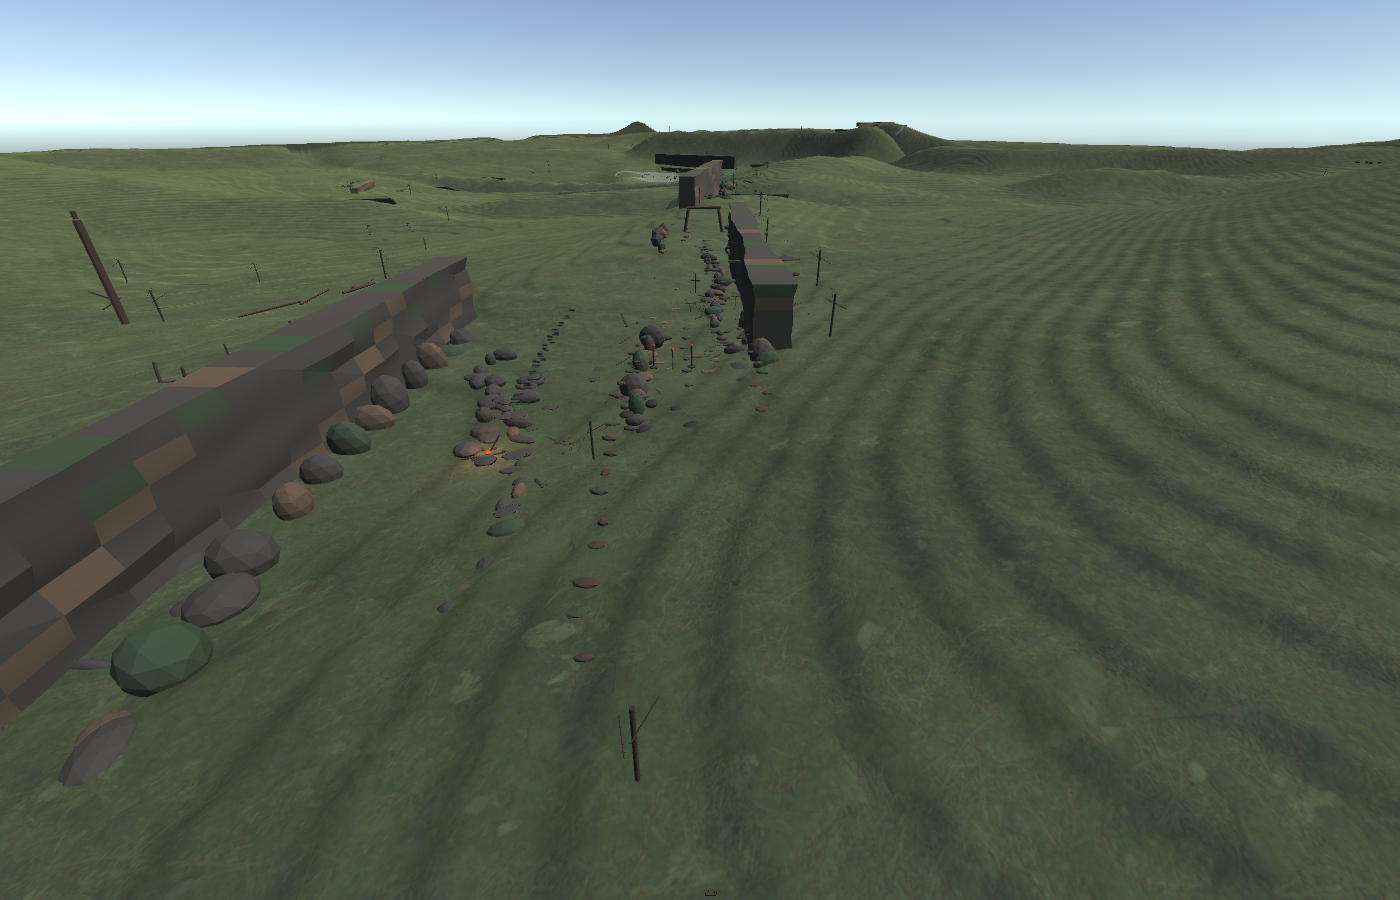
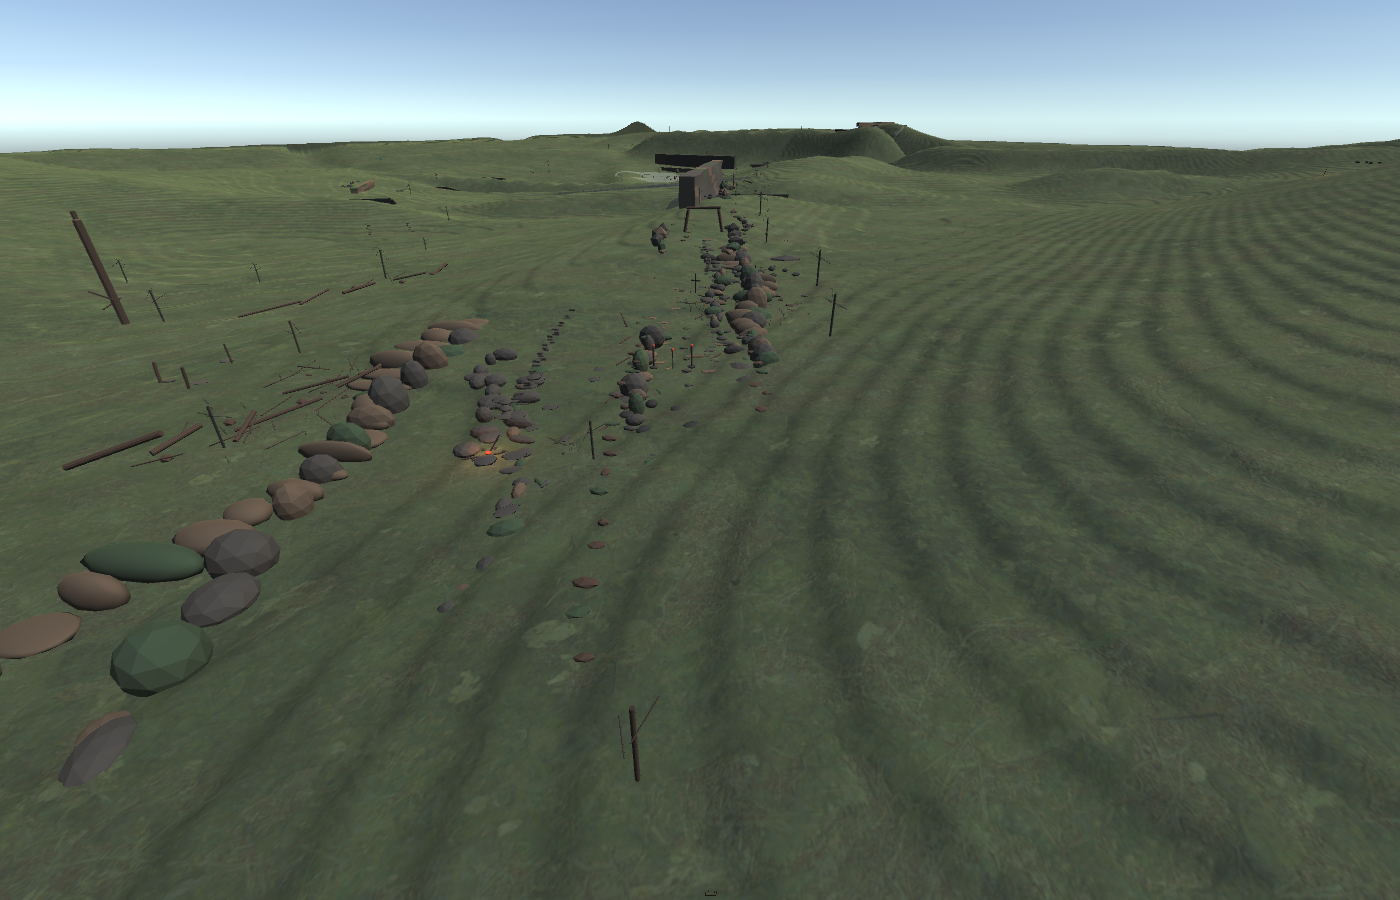
Publish corrected route rock pass

Changed region(s): [[0.0, 0.28, 0.3379, 0.7778], [0.4914, 0.2489, 0.5836, 0.4044]]

diff --git a/play-20260621-1458/index.html b/play-20260621-1458/index.html
@@ -1,0 +1,133 @@
+<!DOCTYPE html>
+<html lang="en-us">
+  <head>
+    <meta charset="utf-8">
+    <meta http-equiv="Content-Type" content="text/html; charset=utf-8">
+    <title>Unity Web Player | Fantasy Open World Prototype</title>
+    <link rel="shortcut icon" href="TemplateData/favicon.ico">
+    <link rel="stylesheet" href="TemplateData/style.css">
+  </head>
+  <body>
+    <div id="unity-container" class="unity-desktop">
+      <canvas id="unity-canvas" width=1280 height=720 tabindex="-1"></canvas>
+      <div id="unity-loading-bar">
+        <div id="unity-logo"></div>
+        <div id="unity-progress-bar-empty">
+          <div id="unity-progress-bar-full"></div>
+        </div>
+      </div>
+      <div id="unity-warning"> </div>
+      <div id="unity-footer">
+        <div id="unity-logo-title-footer"></div>
+        <div id="unity-fullscreen-button"></div>
+        <div id="unity-build-title">Fantasy Open World Prototype</div>
+      </div>
+    </div>
+    <script>
+      var canvas = document.querySelector("#unity-canvas");
+
+      // Shows a temporary message banner/ribbon for a few seconds, or
+      // a permanent error message on top of the canvas if type=='error'.
+      // If type=='warning', a yellow highlight color is used.
+      // Modify or remove this function to customize the visually presented
+      // way that non-critical warnings and error messages are presented to the
+      // user.
+      function unityShowBanner(msg, type) {
+        var warningBanner = document.querySelector("#unity-warning");
+        function updateBannerVisibility() {
+          warningBanner.style.display = warningBanner.children.length ? 'block' : 'none';
+        }
+        var div = document.createElement('div');
+        div.innerHTML = msg;
+        warningBanner.appendChild(div);
+        if (type == 'error') div.style = 'background: red; padding: 10px;';
+        else {
+          if (type == 'warning') div.style = 'background: yellow; padding: 10px;';
+          setTimeout(function() {
+            warningBanner.removeChild(div);
+            updateBannerVisibility();
+          }, 5000);
+        }
+        updateBannerVisibility();
+      }
+
+      var buildUrl = "Build";
+      var loaderUrl = buildUrl + "/UnityWebGL.loader.js";
+      var config = {
+        arguments: [],
+        dataUrl: buildUrl + "/UnityWebGL.data",
+        frameworkUrl: buildUrl + "/UnityWebGL.framework.js",
+        codeUrl: buildUrl + "/UnityWebGL.wasm",
+        streamingAssetsUrl: "StreamingAssets",
+        companyName: "Drakovor",
+        productName: "Fantasy Open World Prototype",
+        productVersion: "1.0",
+        showBanner: unityShowBanner,
+        // errorHandler: function(err, url, line) {
+        //    alert("error " + err + " occurred at line " + line);
+        //    // Return 'true' if you handled this error and don't want Unity
+        //    // to process it further, 'false' otherwise.
+        //    return true;
+        // },
+      };
+
+      // By default, Unity keeps WebGL canvas render target size matched with
+      // the DOM size of the canvas element (scaled by window.devicePixelRatio)
+      // Set this to false if you want to decouple this synchronization from
+      // happening inside the engine, and you would instead like to size up
+      // the canvas DOM size and WebGL render target sizes yourself.
+      // config.matchWebGLToCanvasSize = false;
+
+      // If you would like all file writes inside Unity Application.persistentDataPath
+      // directory to automatically persist so that the contents are remembered when
+      // the user revisits the site the next time, uncomment the following line:
+      // config.autoSyncPersistentDataPath = true;
+      // This autosyncing is currently not the default behavior to avoid regressing
+      // existing user projects that might rely on the earlier manual
+      // JS_FileSystem_Sync() behavior, but in future Unity version, this will be
+      // expected to change.
+
+      if (/iPhone|iPad|iPod|Android/i.test(navigator.userAgent)) {
+        // Mobile device style: fill the whole browser client area with the game canvas:
+
+        var meta = document.createElement('meta');
+        meta.name = 'viewport';
+        meta.content = 'width=device-width, height=device-height, initial-scale=1.0, user-scalable=no, shrink-to-fit=yes';
+        document.getElementsByTagName('head')[0].appendChild(meta);
+        document.querySelector("#unity-container").className = "unity-mobile";
+        canvas.className = "unity-mobile";
+
+        // To lower canvas resolution on mobile devices to gain some
+        // performance, uncomment the following line:
+        // config.devicePixelRatio = 1;
+
+
+      } else {
+        // Desktop style: Render the game canvas in a window that can be maximized to fullscreen:
+        canvas.style.width = "1280px";
+        canvas.style.height = "720px";
+      }
+
+      document.querySelector("#unity-loading-bar").style.display = "block";
+
+      var script = document.createElement("script");
+      script.src = loaderUrl;
+      script.onload = () => {
+        createUnityInstance(canvas, config, (progress) => {
+          document.querySelector("#unity-progress-bar-full").style.width = 100 * progress + "%";
+              }).then((unityInstance) => {
+                document.querySelector("#unity-loading-bar").style.display = "none";
+                document.querySelector("#unity-fullscreen-button").onclick = () => {
+                  unityInstance.SetFullscreen(1);
+                };
+
+              }).catch((message) => {
+                alert(message);
+              });
+            };
+
+      document.body.appendChild(script);
+
+    </script>
+  </body>
+</html>

diff --git a/play-20260621-1458/TemplateData/style.css b/play-20260621-1458/TemplateData/style.css
@@ -1,0 +1,16 @@
+body { padding: 0; margin: 0 }
+#unity-container { position: absolute }
+#unity-container.unity-desktop { left: 50%; top: 50%; transform: translate(-50%, -50%) }
+#unity-container.unity-mobile { position: fixed; width: 100%; height: 100% }
+#unity-canvas { background: #1F1F20 }
+.unity-mobile #unity-canvas { width: 100%; height: 100% }
+#unity-loading-bar { position: absolute; left: 50%; top: 50%; transform: translate(-50%, -50%); display: none }
+#unity-logo { width: 154px; height: 130px; background: url('unity-logo-dark.png') no-repeat center }
+#unity-progress-bar-empty { width: 141px; height: 18px; margin-top: 10px; margin-left: 6.5px; background: url('progress-bar-empty-dark.png') no-repeat center }
+#unity-progress-bar-full { width: 0%; height: 18px; margin-top: 10px; background: url('progress-bar-full-dark.png') no-repeat center }
+#unity-footer { position: relative }
+.unity-mobile #unity-footer { display: none }
+#unity-logo-title-footer { float:left; width: 102px; height: 38px; background: url('unity-logo-title-footer.png') no-repeat center }
+#unity-build-title { float: right; margin-right: 10px; line-height: 38px; font-family: arial; font-size: 18px }
+#unity-fullscreen-button { cursor:pointer; float: right; width: 38px; height: 38px; background: url('fullscreen-button.png') no-repeat center }
+#unity-warning { position: absolute; left: 50%; top: 5%; transform: translate(-50%); background: white; padding: 10px; display: none }

diff --git a/index.html b/index.html
@@ -46,7 +46,7 @@
             <p class="eyebrow">Playable Build</p>
             <h2>Unity WebGL Map</h2>
           </div>
-          <a class="play-link" href="./play-20260621-1430/">Open playable build</a>
+          <a class="play-link" href="./play-20260621-1458/">Open playable build</a>
         </div>
         <div class="playable-copy">
           <p>

diff --git a/Assets/TerrainPipeline/ImportReports/professional_pipeline_report.md b/Assets/TerrainPipeline/ImportReports/professional_pipeline_report.md
@@ -13,7 +13,7 @@ Active terrain source: Assets/TerrainPipeline/ExternalTerrainExports/Houdini
 | World Machine | Waiting | Optional future/off-Mac large-world procedural terrain builds and deterministic batch exports. | `Assets/TerrainPipeline/ExternalTerrainExports/WorldMachine` | Missing: base_height_1025.png, mask_slope.png, mask_flow.png, mask_biome_rgba.png. |
 | Houdini | Ready | AAA procedural mesh chunks: cliffs, canyons, arches, cave entrances, terrain variants. | `Assets/Art/Environment/FloatingWorld/Houdini + Assets/Art/Environment/FloatingWorld/FBX` | 3 generated Houdini LOD0 FBX chunk(s), 2 HIP source file(s), and metadata found. |
 | ZBrush | Waiting | High-detail sculpt pass for hero rocks, cave lips, cliff faces, and unique silhouettes. | `Assets/Art/Environment/FloatingWorld/ZBrush` | No source meshes found yet for this tool role. |
-| Blender | Ready | Blockout, layout assembly, kitbash/reference modular meshes, and manual cleanup where needed. | `Tools/FantasyWorldPipeline/blender` | 115 Blender reference FBX file(s) found. These are blockout/reference meshes, not a replacement for Houdini/ZBrush/Substance passes. |
+| Blender | Ready | Blockout, layout assembly, kitbash/reference modular meshes, and manual cleanup where needed. | `Tools/FantasyWorldPipeline/blender` | 124 Blender reference FBX file(s) found. These are blockout/reference meshes, not a replacement for Houdini/ZBrush/Substance passes. |
[2 lines of base64/hex data omitted]
 | Poly Haven CC0 Mesh Kit | Ready | Free professional 3D kitbash assets for cliffs, cave lips, deadwood, and ground dressing when paid asset kits are unavailable. | `Assets/Art/Environment/FloatingWorld/FBX + Assets/Art/Environment/FloatingWorld/Materials/Textures/CC03D` | 2 complete CC0 mesh asset set(s) found with FBX LODs and PBR textures. |